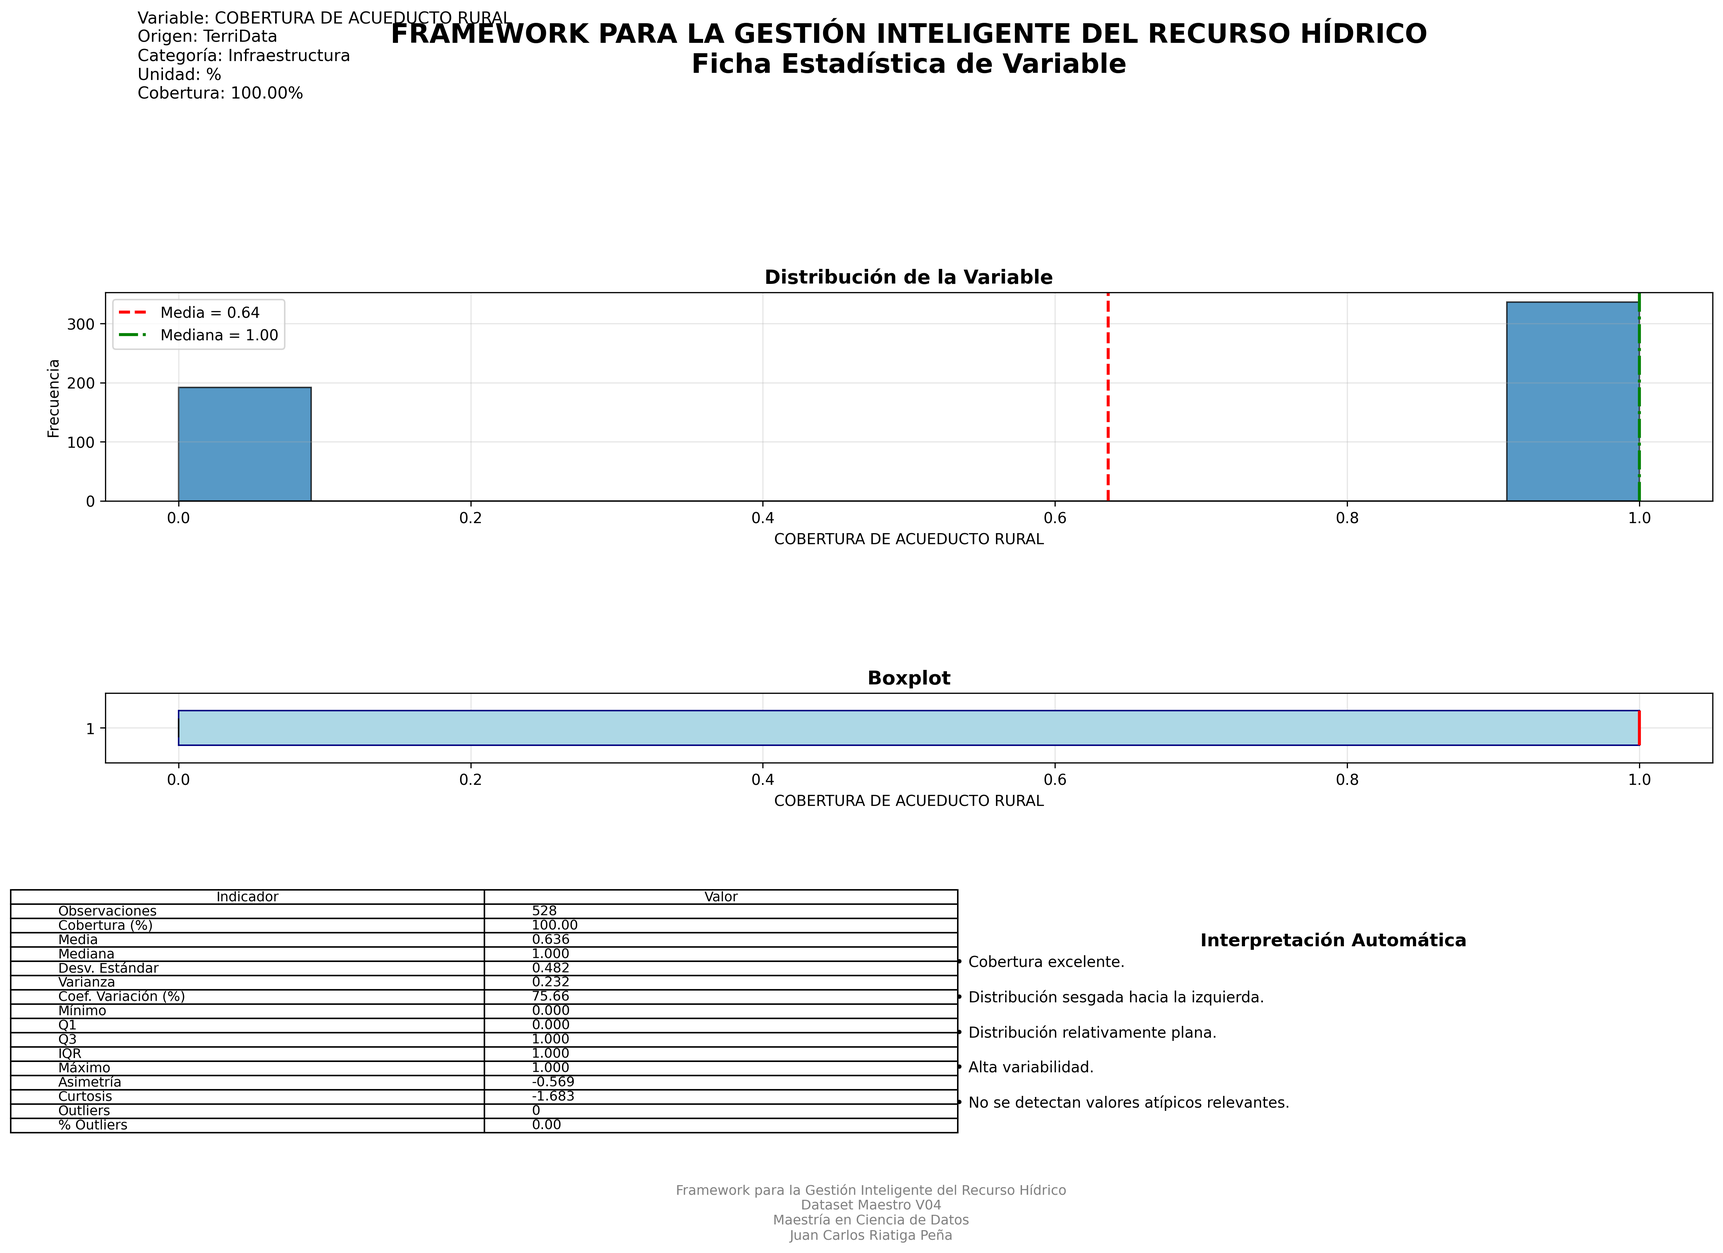
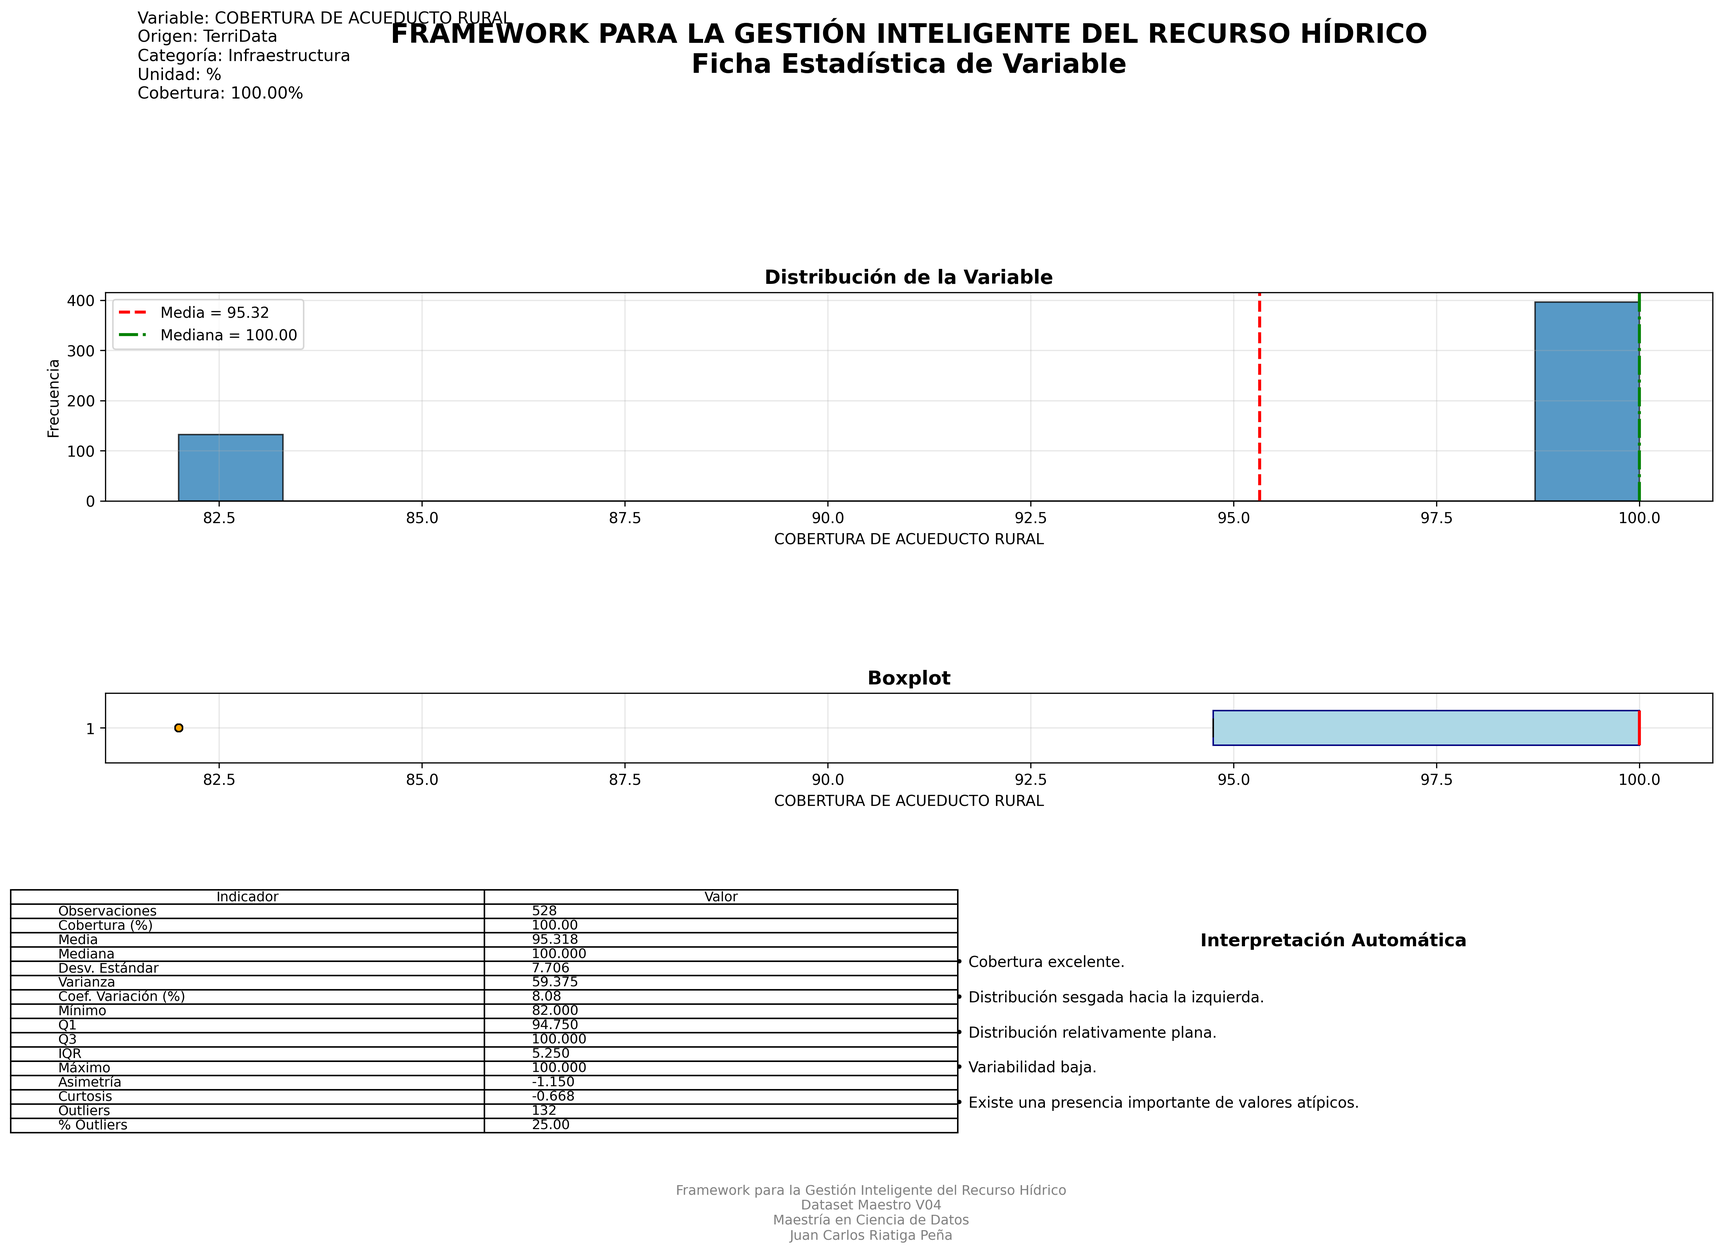
Add files via upload

diff --git a/DATA/MASTER/C10_MASTER/Resultados_EDA/Analisis_Univariado/Fichas/estadisticas_univariadas.md b/DATA/MASTER/C10_MASTER/Resultados_EDA/Analisis_Univariado/Fichas/estadisticas_univariadas.md
@@ -1,37 +1,37 @@
-| Variable                                                                 | Origen      | Categoria        | Unidad     |   Observaciones |   Cobertura (%) |    Media |   Mediana |   DesvStd |   CoefVar (%) |   Asimetria |   Curtosis |   Outliers |   %Outliers |
-|:-------------------------------------------------------------------------|:------------|:-----------------|:-----------|----------------:|----------------:|---------:|----------:|----------:|--------------:|------------:|-----------:|-----------:|------------:|
-| Precipitacion_mm                                                         | IDEAM       | Climatología     | mm         |             528 |          100    |    6.066 |     5.845 |     3.708 |         61.13 |       0.657 |      0.22  |          7 |        1.33 |
-| Temp_Max_C                                                               | IDEAM       | Climatología     | °C         |             528 |          100    |   22.991 |    22.805 |     2.69  |         11.7  |       0.252 |     -0.901 |          0 |        0    |
-| Temp_Min_C                                                               | IDEAM       | Climatología     | °C         |             528 |          100    |   11.103 |    11.26  |     2.475 |         22.29 |      -0.216 |     -0.85  |          0 |        0    |
-| Temp_Media_C                                                             | IDEAM       | Climatología     | °C         |             528 |          100    |   16.715 |    17.28  |     2.268 |         13.57 |      -0.162 |     -1.336 |          0 |        0    |
-| Humedad_Relativa                                                         | IDEAM       | Climatología     | %          |             528 |          100    |   84.682 |    86.2   |     5.182 |          6.12 |      -1.056 |      0.723 |          6 |        1.14 |
-| Velocidad_Viento                                                         | IDEAM       | Climatología     | m/s        |             528 |          100    |    1.093 |     1.03  |     0.261 |         23.92 |       0.68  |     -0.071 |          5 |        0.95 |
-| Radiacion_Solar                                                          | IDEAM       | Climatología     | W/m²       |             528 |          100    |   16.587 |    16.495 |     1.696 |         10.23 |       0.436 |      0.519 |         16 |        3.03 |
-| Anio                                                                     | Framework   | Temporal         | Año        |             528 |          100    | 2020     |  2020     |     3.165 |          0.16 |       0     |     -1.22  |          0 |        0    |
-| Mes                                                                      | Framework   | Temporal         | Mes        |             528 |          100    |    6.5   |     6.5   |     3.455 |         53.16 |       0     |     -1.217 |          0 |        0    |
-| ONI                                                                      | NOAA        | ENSO             | Índice     |             528 |          100    |    0.166 |    -0.015 |     0.939 |        564.32 |       0.891 |      0.242 |         12 |        2.27 |
-| VolumenUtilDiarioMasa                                                    | CAR         | Hidrología       | m³         |             528 |          100    |    0.083 |     0     |     0.277 |        331.98 |       3.024 |      7.17  |         44 |        8.33 |
-| irca                                                                     | SIVICAP     | Agua Potable     | %          |             528 |          100    |    0.091 |     0     |     0.288 |        316.53 |       2.854 |      6.17  |         48 |        9.09 |
-| POBLACION TOTAL                                                          | DANE        | Demografía       | Habitantes |             528 |          100    |    0     |     0     |     0     |        nan    |       0     |      0     |          0 |        0    |
-| DENSIDAD POBLACIONAL                                                     | DANE        | Demografía       | Hab/km²    |             528 |          100    |    0.636 |     1     |     0.482 |         75.66 |      -0.569 |     -1.683 |          0 |        0    |
-| INDICE DE DESEMPENO INSTITUCIONAL                                        | DNP         | Gobernanza       | Índice     |              48 |            9.09 |   71.825 |    69.2   |    10.527 |         14.66 |       0.73  |     -0.852 |         12 |       25    |
-| ACCESO A AGUA POTABLE ADECUADO                                           | No definido | No definida      | -          |             528 |          100    |    0.636 |     1     |     0.482 |         75.66 |      -0.569 |     -1.683 |          0 |        0    |
-| PORCENTAJE DE LA POBLACION CON ACCESO A METODOS DE SANEAMIENTO ADECUADOS | No definido | No definida      | -          |             528 |          100    |    0.636 |     1     |     0.482 |         75.66 |      -0.569 |     -1.683 |          0 |        0    |
-| COBERTURA DE ACUEDUCTO URBANO                                            | TerriData   | Infraestructura  | %          |             528 |          100    |    0.636 |     1     |     0.482 |         75.66 |      -0.569 |     -1.683 |          0 |        0    |
-| COBERTURA DE ACUEDUCTO RURAL                                             | TerriData   | Infraestructura  | %          |             528 |          100    |    0.636 |     1     |     0.482 |         75.66 |      -0.569 |     -1.683 |          0 |        0    |
-| COBERTURA DE ALCANTARILLADO URBANO                                       | TerriData   | Infraestructura  | %          |             528 |          100    |    0.636 |     1     |     0.482 |         75.66 |      -0.569 |     -1.683 |          0 |        0    |
-| COBERTURA DE ALCANTARILLADO RURAL                                        | TerriData   | Infraestructura  | %          |             528 |          100    |    0.636 |     1     |     0.482 |         75.66 |      -0.569 |     -1.683 |          0 |        0    |
-| CONTINUIDAD DE ACUEDUCTO URBANO                                          | TerriData   | Infraestructura  | Horas/día  |              96 |           18.18 |   24     |    24     |     0     |          0    |       0     |      0     |          0 |        0    |
-| CALIDAD DEL AGUA                                                         | TerriData   | Agua Potable     | Índice     |              96 |           18.18 |   27.617 |    27     |    20.615 |         74.65 |       0.494 |     -0.146 |         12 |       12.5  |
-| AGUAS RESIDUALES TRATADAS                                                | TerriData   | Saneamiento      | %          |              96 |           18.18 |   67     |    84     |    40.852 |         60.97 |      -0.878 |     -0.934 |          0 |        0    |
-| Nivel_Minimo                                                             | CAR         | Hidrología       | m          |              87 |           16.48 |    3.094 |     0.672 |    18.771 |        606.63 |       9.3   |     86.659 |          1 |        1.15 |
-| CONDUCTIVIDAD ELECTRICA                                                  | CAR         | Calidad del Agua | µS/cm      |              50 |            9.47 |  190.909 |   118.8   |   177.642 |         93.05 |       1.5   |      1.418 |          4 |        8    |
-| DEMANDA BIOQUIMICA DE OXIGENO (DBO5)                                     | CAR         | Calidad del Agua | mg/L       |              26 |            4.92 |   10.637 |     7.215 |    10.265 |         96.51 |       2.031 |      3.487 |          4 |       15.38 |
-| DEMANDA QUIMICA DE OXIGENO (DQO)                                         | CAR         | Calidad del Agua | mg/L       |              49 |            9.28 |   46.995 |    40     |    27.92  |         59.41 |       0.914 |      0.172 |          1 |        2.04 |
-| FOSFORO TOTAL                                                            | CAR         | Calidad del Agua | mg/L       |              49 |            9.28 |    0.585 |     0.3   |     0.582 |         99.43 |       1.495 |      1.236 |          3 |        6.12 |
-| NITROGENO TOTAL                                                          | CAR         | Calidad del Agua | mg/L       |              29 |            5.49 |    7.035 |     4.188 |     6.537 |         92.92 |       1.003 |     -0.132 |          0 |        0    |
-| OXIGENO DISUELTO (OD)                                                    | CAR         | Calidad del Agua | mg/L       |              50 |            9.47 |    4.244 |     4.6   |     2.143 |         50.51 |      -0.216 |     -1.454 |          0 |        0    |
-| SOLIDOS SUSPENDIDOS TOTALES                                              | CAR         | Calidad del Agua | mg/L       |              50 |            9.47 |   47.829 |    34.875 |    46.373 |         96.96 |       2.497 |      8.127 |          4 |        8    |
-| TEMPERATURA                                                              | CAR         | Calidad del Agua | °C         |              50 |            9.47 |   16.27  |    16.875 |     2.245 |         13.8  |      -0.518 |     -0.524 |          0 |        0    |
-| TURBIDEZ                                                                 | CAR         | Calidad del Agua | NTU        |              34 |            6.44 |   31.44  |    22.75  |    29.899 |         95.1  |       1.626 |      2.219 |          2 |        5.88 |
-| pH                                                                       | CAR         | Calidad del Agua | pH         |              50 |            9.47 |    6.965 |     6.88  |     0.491 |          7.06 |       0.418 |      2.636 |          6 |       12    |
+| Variable                                                                 | Origen                    | Categoria        | Unidad     |   Observaciones |   Cobertura (%) |           Media |         Mediana |         DesvStd |   CoefVar (%) |   Asimetria |   Curtosis |   Outliers |   %Outliers |
+|:-------------------------------------------------------------------------|:--------------------------|:-----------------|:-----------|----------------:|----------------:|----------------:|----------------:|----------------:|--------------:|------------:|-----------:|-----------:|------------:|
+| Precipitacion_mm                                                         | IDEAM                     | Climatología     | mm         |             528 |          100    |     6.066       |     5.845       |     3.708       |         61.13 |       0.657 |      0.22  |          7 |        1.33 |
+| Temp_Max_C                                                               | IDEAM                     | Climatología     | °C         |             528 |          100    |    22.991       |    22.805       |     2.69        |         11.7  |       0.252 |     -0.901 |          0 |        0    |
+| Temp_Min_C                                                               | IDEAM                     | Climatología     | °C         |             528 |          100    |    11.103       |    11.26        |     2.475       |         22.29 |      -0.216 |     -0.85  |          0 |        0    |
+| Temp_Media_C                                                             | IDEAM                     | Climatología     | °C         |             528 |          100    |    16.715       |    17.28        |     2.268       |         13.57 |      -0.162 |     -1.336 |          0 |        0    |
+| Humedad_Relativa                                                         | IDEAM                     | Climatología     | %          |             528 |          100    |    84.682       |    86.2         |     5.182       |          6.12 |      -1.056 |      0.723 |          6 |        1.14 |
+| Velocidad_Viento                                                         | IDEAM                     | Climatología     | m/s        |             528 |          100    |     1.093       |     1.03        |     0.261       |         23.92 |       0.68  |     -0.071 |          5 |        0.95 |
+| Radiacion_Solar                                                          | IDEAM                     | Climatología     | W/m²       |             528 |          100    |    16.587       |    16.495       |     1.696       |         10.23 |       0.436 |      0.519 |         16 |        3.03 |
+| Anio                                                                     | Framework                 | Temporal         | Año        |             528 |          100    |  2020           |  2020           |     3.165       |          0.16 |       0     |     -1.22  |          0 |        0    |
+| Mes                                                                      | Framework                 | Temporal         | Mes        |             528 |          100    |     6.5         |     6.5         |     3.455       |         53.16 |       0     |     -1.217 |          0 |        0    |
+| ONI                                                                      | NOAA                      | ENSO             | Índice     |             528 |          100    |     0.166       |    -0.015       |     0.939       |        564.32 |       0.891 |      0.242 |         12 |        2.27 |
+| VolumenUtilDiarioMasa                                                    | CAR                       | Hidrología       | m³         |             336 |           63.64 |     4.37503e+08 |     4.32175e+08 |     9.35791e+07 |         21.39 |       0.124 |     -1.093 |          0 |        0    |
+| irca                                                                     | SIVICAP                   | Agua Potable     | %          |             528 |          100    |     2.6         |     2.2         |     2.412       |         92.76 |       1.018 |      0.361 |         12 |        2.27 |
+| POBLACION TOTAL                                                          | DANE                      | Demografía       | Habitantes |             528 |          100    | 61680.6         | 37972.5         | 53355.8         |         86.5  |       1.066 |     -0.703 |        132 |       25    |
+| DENSIDAD POBLACIONAL                                                     | DANE                      | Demografía       | Hab/km²    |             528 |          100    |   744.905       |   447.33        |   756.035       |        101.49 |       0.944 |     -0.818 |          0 |        0    |
+| INDICE DE DESEMPENO INSTITUCIONAL                                        | DNP                       | Gobernanza       | Índice     |              48 |            9.09 |    71.825       |    69.2         |    10.527       |         14.66 |       0.73  |     -0.852 |         12 |       25    |
+| ACCESO A AGUA POTABLE ADECUADO                                           | No documentado en C09/C10 | Infraestructura  | %          |             528 |          100    |    97.769       |   100           |     4.345       |          4.44 |      -1.474 |      0.186 |        108 |       20.45 |
+| PORCENTAJE DE LA POBLACION CON ACCESO A METODOS DE SANEAMIENTO ADECUADOS | No documentado en C09/C10 | Infraestructura  | %          |             528 |          100    |    93.178       |    99           |    14.773       |         15.85 |      -3.296 |     10.609 |         36 |        6.82 |
+| COBERTURA DE ACUEDUCTO URBANO                                            | TerriData                 | Infraestructura  | %          |             528 |          100    |    99.818       |   100           |     0.386       |          0.39 |      -1.655 |      0.741 |         96 |       18.18 |
+| COBERTURA DE ACUEDUCTO RURAL                                             | TerriData                 | Infraestructura  | %          |             528 |          100    |    95.318       |   100           |     7.706       |          8.08 |      -1.15  |     -0.668 |        132 |       25    |
+| COBERTURA DE ALCANTARILLADO URBANO                                       | TerriData                 | Infraestructura  | %          |             528 |          100    |    87.683       |    84.31        |     9.051       |         10.32 |      -0.161 |     -0.032 |         12 |        2.27 |
+| COBERTURA DE ALCANTARILLADO RURAL                                        | TerriData                 | Infraestructura  | %          |             528 |          100    |    45.103       |    55.88        |    26.898       |         59.64 |      -0.56  |     -1.061 |          0 |        0    |
+| CONTINUIDAD DE ACUEDUCTO URBANO                                          | TerriData                 | Infraestructura  | Horas/día  |              96 |           18.18 |    24           |    24           |     0           |          0    |       0     |      0     |          0 |        0    |
+| CALIDAD DEL AGUA                                                         | TerriData                 | Agua Potable     | Índice     |              96 |           18.18 |    27.617       |    27           |    20.615       |         74.65 |       0.494 |     -0.146 |         12 |       12.5  |
+| AGUAS RESIDUALES TRATADAS                                                | TerriData                 | Saneamiento      | %          |              96 |           18.18 |    67           |    84           |    40.852       |         60.97 |      -0.878 |     -0.934 |          0 |        0    |
+| Nivel_Minimo                                                             | CAR                       | Hidrología       | m          |              87 |           16.48 |     3.094       |     0.672       |    18.771       |        606.63 |       9.3   |     86.659 |          1 |        1.15 |
+| CONDUCTIVIDAD ELECTRICA                                                  | CAR                       | Calidad del Agua | µS/cm      |              50 |            9.47 |   190.909       |   118.8         |   177.642       |         93.05 |       1.5   |      1.418 |          4 |        8    |
+| DEMANDA BIOQUIMICA DE OXIGENO (DBO5)                                     | CAR                       | Calidad del Agua | mg/L       |              26 |            4.92 |    10.637       |     7.215       |    10.265       |         96.51 |       2.031 |      3.487 |          4 |       15.38 |
+| DEMANDA QUIMICA DE OXIGENO (DQO)                                         | CAR                       | Calidad del Agua | mg/L       |              49 |            9.28 |    46.995       |    40           |    27.92        |         59.41 |       0.914 |      0.172 |          1 |        2.04 |
+| FOSFORO TOTAL                                                            | CAR                       | Calidad del Agua | mg/L       |              49 |            9.28 |     0.585       |     0.3         |     0.582       |         99.43 |       1.495 |      1.236 |          3 |        6.12 |
+| NITROGENO TOTAL                                                          | CAR                       | Calidad del Agua | mg/L       |              29 |            5.49 |     7.035       |     4.188       |     6.537       |         92.92 |       1.003 |     -0.132 |          0 |        0    |
+| OXIGENO DISUELTO (OD)                                                    | CAR                       | Calidad del Agua | mg/L       |              50 |            9.47 |     4.244       |     4.6         |     2.143       |         50.51 |      -0.216 |     -1.454 |          0 |        0    |
+| SOLIDOS SUSPENDIDOS TOTALES                                              | CAR                       | Calidad del Agua | mg/L       |              50 |            9.47 |    47.829       |    34.875       |    46.373       |         96.96 |       2.497 |      8.127 |          4 |        8    |
+| TEMPERATURA                                                              | CAR                       | Calidad del Agua | °C         |              50 |            9.47 |    16.27        |    16.875       |     2.245       |         13.8  |      -0.518 |     -0.524 |          0 |        0    |
+| TURBIDEZ                                                                 | CAR                       | Calidad del Agua | NTU        |              34 |            6.44 |    31.44        |    22.75        |    29.899       |         95.1  |       1.626 |      2.219 |          2 |        5.88 |
+| pH                                                                       | CAR                       | Calidad del Agua | pH         |              50 |            9.47 |     6.965       |     6.88        |     0.491       |          7.06 |       0.418 |      2.636 |          6 |       12    |
